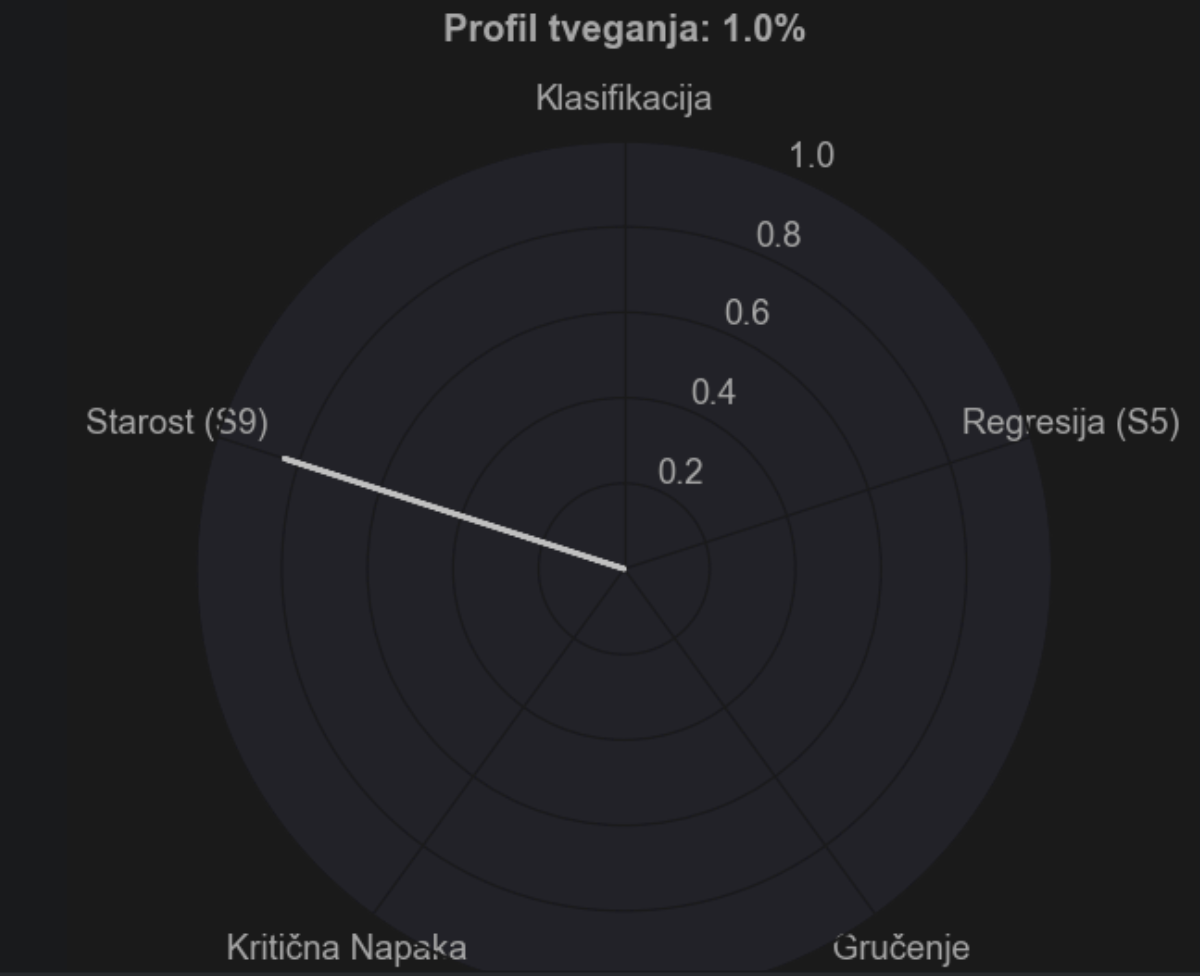
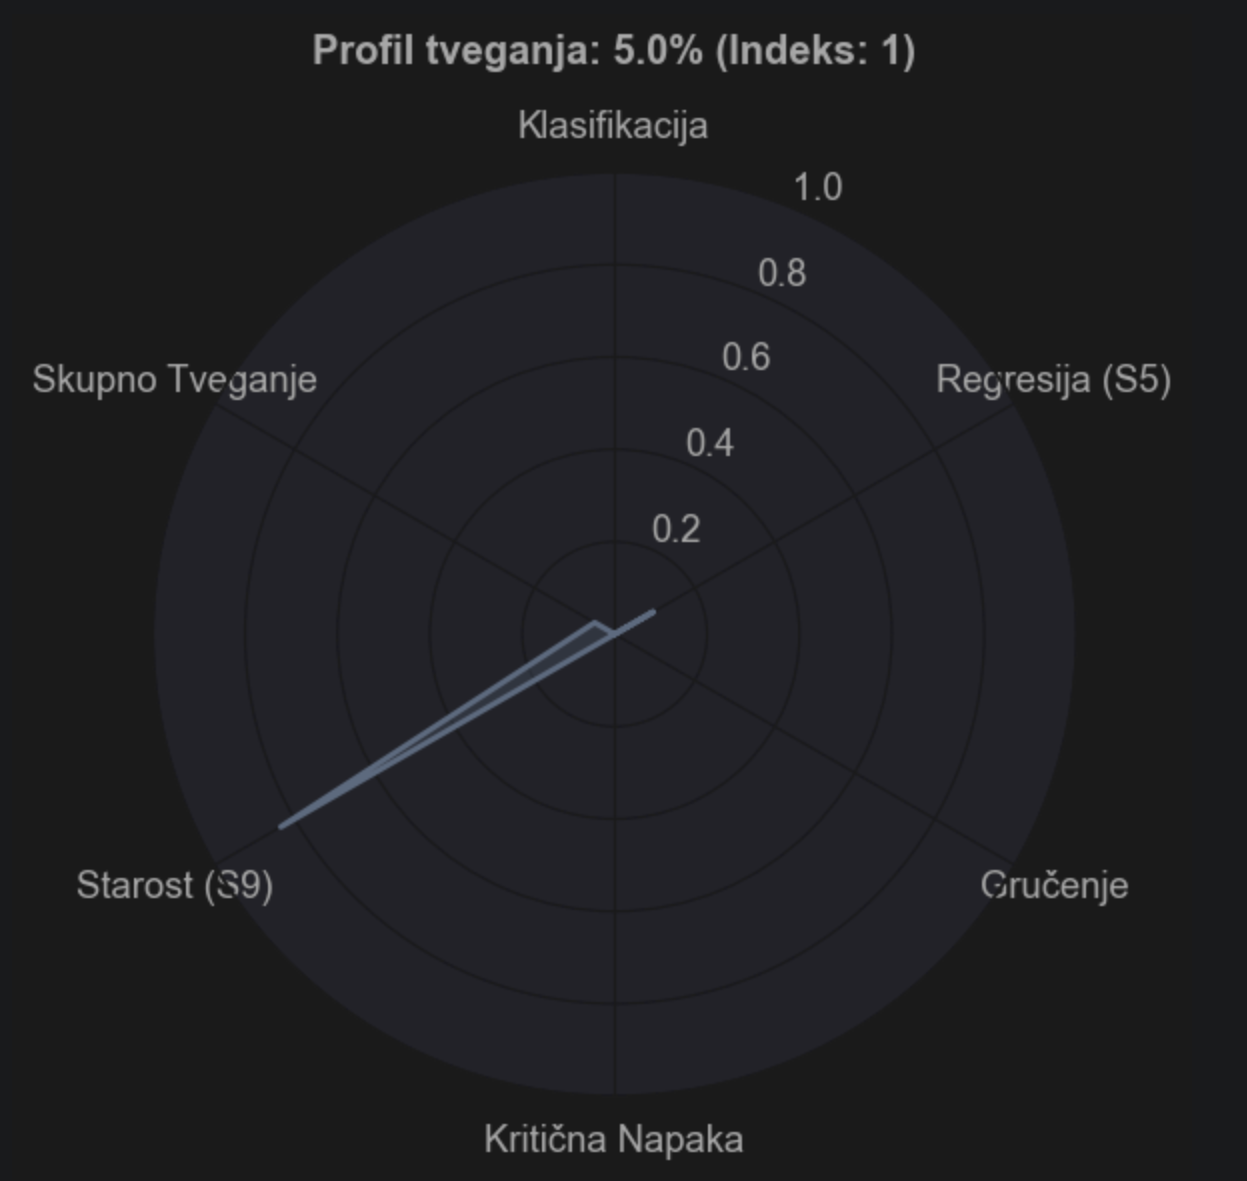
readme update

diff --git a/README.md b/README.md
@@ -47,7 +47,7 @@ Predicting the value of **SMART 5 (Reallocated Sectors Count)**.
 * **Surface Degradation:** By predicting a rise in SMART 5, we can intervene before the disk's internal spare area is fully depleted.
 * **Failure Urgency:** A higher predicted SMART 5 value correlates directly with imminent mechanical failure.
 
-![regression.png](Graphs/regression_data_leakage!!.png)
+![regression.png](Graphs/regression.png)
 
 ---
 
@@ -76,11 +76,15 @@ To demonstrate the efficacy of our risk assessment, we present two extreme insta
 
 ![worst_case.png](Graphs/worst_case.png)
 
-**High-Risk Instance (61%):** We observe a high level of convergence across all modules. Each machine learning method (classification, regression, and clustering) predicts values close to 1.0. This alignment confirms that the 61% risk score is highly accurate and reliable, as it is corroborated by multiple independent models simultaneously.
+**High-Risk Instance (97%):** We observe a high level of convergence across all modules. Each machine learning method (classification, regression, and clustering) predicts values close to 1.0. This alignment confirms that the 61% risk score is highly accurate and reliable, as it is corroborated by multiple independent models simultaneously.
 
 ![best_case.png](Graphs/best_case.png)
 
-**Low-Risk Instance (1%):** In contrast, we see a consistent prediction near 0.0 across all security-related modules. The only significant value is Age (0.8), proving that the model can effectively isolate natural wear and tear from actual failure signals.
+**Low-Risk Instance (5%):** In contrast, we see a consistent prediction near 0.0 across all security-related modules. The only significant value is Age (0.8), proving that the model can effectively isolate natural wear and tear from actual failure signals.
+
+**Formula for prediction calculation:** The HIR score is the weighted root-mean-square of four critical metrics ($K, R, G, N$), combining them into a single value that heavily penalizes large health deviations to predict imminent disk failure:
+
+![HIR-png](Graphs/HIR.png)
 
 ---
 
